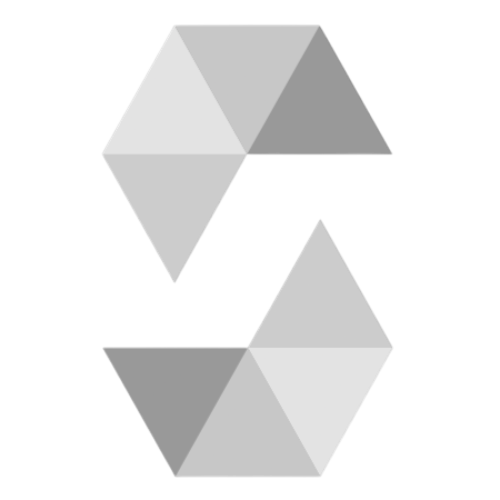
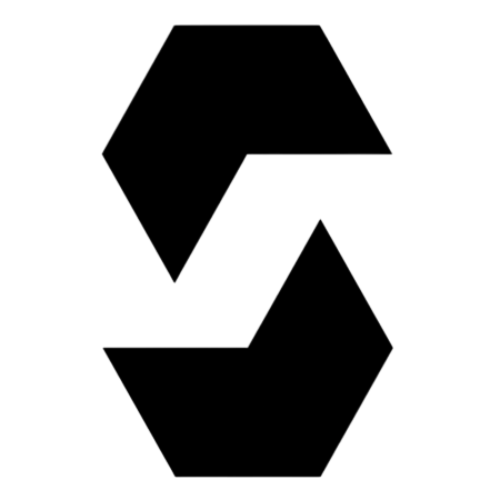
theme updated & changed

diff --git a/src/SecP.jsx b/src/SecP.jsx
@@ -141,7 +141,7 @@ export default function SecP() {
                                 <div className="divf headerBCard">
                                     <p className="mH handle">#ABOUT ME</p>
                                 </div>
-                                <div className="divf fdirc aboutMeD">
+                                <div className="divf fdirc aboutMeD ">
                                     <p>Hey, I am Yash!</p>
                                     <p>A Developer from Mumbai.</p>
                                     <p>I have a keen interest in Blockchain & Web Development.</p>
@@ -172,37 +172,39 @@ export default function SecP() {
                         >
                             <div className="divf fdirc cProjects c1 softWindow softProject">
                                 <button className="closeSoft" onClick={() => { const vas = handleSoft("idProjectFolder", "idProjectSC", pOpen); setPOpen(vas); }}><FontAwesomeIcon icon={faXmark} /></button>
+
                                 <div className="divf headerBCard">
                                     <p className="mH handle">#PROJECTS</p>
                                 </div>
 
                                 <div className="divf allProjects">
-                                    <Link target="_blank" to="https://algo-vlab.kjsieit.com/" className="divf fdirc indProject projCard">
+                                    <Link target="_blank" to="https://algo-vlab.kjsieit.com/" className="divf fdirc indProject projCard allWCards">
                                         <button className="goToSite"><FontAwesomeIcon icon={faArrowUpRightFromSquare} /></button>
                                         <p className="projectName">Algorithm Virtual lab</p>
                                         <p className="projectDesc">Learn Algorithms using Simulations and various examples</p>
                                     </Link>
-                                    <Link target="_blank" to="https://itsyashaseeker.github.io/Ultimate-digits/" className="divf fdirc indProject">
+                                    <Link target="_blank" to="https://itsyashaseeker.github.io/Ultimate-digits/" className="divf fdirc indProject allWCards">
                                         <button className="goToSite"><FontAwesomeIcon icon={faArrowUpRightFromSquare} /></button>
                                         <p className="projectName">Ultimate Digits</p>
                                         <p className="projectDesc">Buy web3 mobile no. {"{Contributed to frontend (React)}"}</p>
                                     </Link>
-                                    <Link target="_blank" to="https://github.com/itsYashASeeker/blocksupp" className="divf fdirc indProject">
+                                    <Link target="_blank" to="https://github.com/itsYashASeeker/blocksupp" className="divf fdirc indProject allWCards">
                                         <button className="goToSite"><FontAwesomeIcon icon={faArrowUpRightFromSquare} /></button>
                                         <p className="projectName">BlockSupp</p>
                                         <p className="projectDesc">Track your product's history using blockchain from Supplier to Customer {"{Solidity}"}</p>
                                     </Link>
-                                    <Link target="_blank" to="https://github.com/itsYashASeeker/Python-Projects" className="divf fdirc indProject">
+                                    <Link target="_blank" to="https://github.com/itsYashASeeker/Python-Projects" className="divf fdirc indProject allWCards">
                                         <button className="goToSite"><FontAwesomeIcon icon={faArrowUpRightFromSquare} /></button>
                                         <p className="projectName">Python Projects</p>
                                         <p className="projectDesc">All projects I created in Python(games & guis)</p>
                                     </Link>
-                                    <Link target="_blank" to="https://todolists-pora.onrender.com/" className="divf fdirc indProject">
+                                    <Link target="_blank" to="https://todolists-pora.onrender.com/" className="divf fdirc indProject allWCards">
                                         <button className="goToSite"><FontAwesomeIcon icon={faArrowUpRightFromSquare} /></button>
                                         <p className="projectName">Todo lists</p>
                                         <p className="projectDesc">A User Interactive Todo lists WebApp</p>
                                     </Link>
                                 </div>
+
                             </div>
                         </Draggable>
                     </div>
@@ -451,12 +453,12 @@ export default function SecP() {
                         <img src={FolderIcon} className="folderI" />
                         <p className="folderName">Experience</p>
                     </button>
-                    <button id="idEducationFolder" className="divf fdirc folderCard">
-                        <img src={FolderIcon} className="folderI" onClick={() => { const vas = handleSoft("idEducationFolder", "idEducationSC", edOpen); setEdOpen(vas); }} />
+                    <button id="idEducationFolder" className="divf fdirc folderCard" onClick={() => { const vas = handleSoft("idEducationFolder", "idEducationSC", edOpen); setEdOpen(vas); }}>
+                        <img src={FolderIcon} className="folderI" />
                         <p className="folderName">Education</p>
                     </button>
-                    <button id={softList[3][0]} className="divf fdirc folderCard">
-                        <img src={FolderIcon} className="folderI" onClick={() => { const vas = handleSoft(softList[3][0], softList[3][1], cerOpen); setCerOpen(vas); }} />
+                    <button id={softList[3][0]} className="divf fdirc folderCard" onClick={() => { const vas = handleSoft(softList[3][0], softList[3][1], cerOpen); setCerOpen(vas); }}>
+                        <img src={FolderIcon} className="folderI" />
                         <p className="folderName">Certifications</p>
                     </button>
                 </div>

diff --git a/src/index.css b/src/index.css
@@ -27,10 +27,9 @@
 }
 
 body {
-  background: rgba(41, 49, 50, 1);
-  background: rgb(26, 25, 25);
+  background: black;
   /* background: linear-gradient(red, blue); */
-  color: white;
+  color: rgb(0, 0, 0);
 }
 
 .fullbg {
@@ -38,7 +37,9 @@ body {
   width: 100%;
 }
 
-
+a {
+  color: black;
+}
 
 .divf {
   display: flex;
@@ -116,7 +117,7 @@ body {
 }
 
 .c1 {
-
+  position: relative;
   /* background: grey; */
   width: 30vw;
   padding: 0.5rem 0.8rem;
@@ -125,19 +126,17 @@ body {
   border-bottom-right-radius: 1rem; */
   border-radius: 1rem;
 
-  border: 0.15rem solid var(--p5);
+  border: 0.2rem solid rgba(255, 255, 255, 0.8);
 
   background: var(--b2);
+  background: rgba(255, 255, 255, 0.4);
   transition: 0.3s all ease-out;
   backdrop-filter: blur(1rem);
-  box-shadow: 0 0 0.3rem rgba(255, 255, 255, 0.3);
+  box-shadow: 0 0 0.3rem rgba(0, 0, 0, 0.3);
+  color: black;
+
 }
 
-.c1:hover {
-  border: 0.15rem solid var(--p3);
-  background: var(--b3);
-  box-shadow: 0 0 0.3rem rgba(255, 255, 255, 0.63);
-}
 
 .cSkills {
   transform: translateY(-0.15rem) translateX(-0.15rem);
@@ -158,6 +157,8 @@ body {
   width: 100%;
   font-family: 'Pixelify Sans', sans-serif;
   margin-right: 3rem;
+  /* backdrop-filter: blur(1rem); */
+  /* box-shadow: 0 0 0.3rem rgba(255, 255, 255, 0.5); */
   /* back */
 }
 
@@ -174,7 +175,7 @@ body {
 .skB {
   column-gap: 0.5rem;
   border-radius: 0.5rem;
-  background: rgba(255, 255, 255, 0.1);
+  background: rgba(255, 255, 255, 0.4);
   border: 0.12rem solid rgba(255, 255, 255, 0.1);
   width: fit-content;
   padding: 0rem 0.6rem;
@@ -182,20 +183,23 @@ body {
   font-size: 1rem;
   cursor: default;
   transition: 0.2s all ease-out;
+  box-shadow: 0 0 0.3rem rgb(97, 97, 97);
 }
 
 .skB:hover {
-  background: rgba(255, 255, 255, 0.2);
+  background: rgba(255, 255, 255, 0.5);
   border: 0.12rem solid rgba(255, 255, 255, 0.9);
+  box-shadow: 0 0 0.4rem 0.1rem rgb(97, 97, 97);
 }
 
 .fIconS {
   transform: translateY(0.1rem);
-  color: white;
+  color: black;
 }
 
 .fImgS {
   /* width: 1rem; */
+  /* mix-blend-mode:darken; */
   height: 1rem;
   /* mix-blend-mode: lighten; */
 }
@@ -226,21 +230,24 @@ body {
 }
 
 .workCard {
-  background: rgba(255, 255, 255, 0.1);
+  background: rgba(255, 255, 255, 0.3);
   width: 100%;
   border-radius: 1.1rem;
   padding: 0.2rem 0.8rem;
   padding-bottom: 0.6rem;
   border: 0.15rem solid var(--p5);
-  transition: 0.3s all ease-out;
+  border: 0.15rem solid rgba(255, 255, 255, 0.5);
+  /* transition: 0.3s all ease-out; */
   cursor: default;
+  transition: 0.2s all ease-out;
+  box-shadow: 0 0 0.3rem rgb(97, 97, 97);
+  /* backdrop-filter: blur(0rem); */
 }
 
 .workCard:hover {
-  background: var(--b5);
-  background: rgba(255, 255, 255, 0.18);
-  border: 0.15rem solid rgba(255, 255, 255, 0.7);
-  box-shadow: 0 0 0.2rem white;
+  background: rgba(255, 255, 255, 0.5);
+  border: 0.15rem solid rgba(255, 255, 255, 0.8);
+  box-shadow: 0 0 0.4rem 0.1rem rgb(97, 97, 97);
 }
 
 .workMainH {
@@ -283,13 +290,13 @@ body {
   /* height: 20rem; */
   min-height: 10rem;
   /* background: rgba(255, 255, 255, 0.15); */
-  background: var(--b1);
+  /* background: var(--b1); */
   border-radius: 1rem;
-  border: 0.2rem solid var(--p5);
+  border: 0.2rem solid rgba(235, 235, 235, 0.4);
   padding: 0.5rem;
   cursor: pointer;
   overflow: hidden;
-  color: white;
+  color: black;
   text-decoration: none;
 }
 
@@ -303,7 +310,7 @@ body {
   border: none;
   outline: none;
   cursor: pointer;
-  color: white;
+  color: rgb(26, 26, 26);
   transition: 0.3s all ease-out;
 }
 
@@ -321,12 +328,14 @@ body {
 
 .indProject:hover {
   gap: 0.5rem;
-  background: var(--b5);
+  /* background: var(--b5); */
+  /* background: rgba(255, 255, 255, 0.4);
+  backdrop-filter: blur(0.05rem); */
   border: 0.2rem solid white;
 }
 
 .indProject:hover .goToSite {
-  font-size: 1rem;
+  font-size: 0.8rem;
 }
 
 .indProject:hover .projectName {

diff --git a/src/index2.css b/src/index2.css
@@ -4,10 +4,10 @@
     left: 0;
     width: 100%;
     padding: 0.5rem 1rem;
-    padding-top: 0.4rem;
+    padding-top: 0.1rem;
     background: var(--b4);
-    background: rgba(0, 0, 0, 0.1);
-    backdrop-filter: blur(0.1rem);
+    background: linear-gradient(0deg, rgba(0, 0, 0, 0.8), rgba(0, 0, 0, 0.2));
+    backdrop-filter: blur(0.2rem);
 }
 
 a {
@@ -23,6 +23,7 @@ a {
 
 .myname {
     font-size: 1rem;
+    color: white;
 }
 
 .currTime {
@@ -32,6 +33,7 @@ a {
     right: 1rem;
     transform: translateY(-50%);
     font-size: 1.3rem;
+    color: white;
 }
 
 .mainContent {
@@ -63,8 +65,8 @@ a {
 
 .folderCard {
     /* background: red; */
-    background: rgba(255, 255, 255, 0.1);
-    backdrop-filter: blur(0.1rem);
+    background: rgba(255, 255, 255, 0.2);
+    backdrop-filter: blur(0.3rem);
     padding: 0.2rem 0.4rem;
     border-radius: 0.5rem;
     border: 0.15rem solid rgba(255, 255, 255, 0.2);
@@ -177,10 +179,11 @@ a {
     outline: none;
     border-radius: 50%;
     cursor: pointer;
+    transition: 0.2s all ease-out;
 }
 
 .closeSoft:hover {
-    background: rgba(0, 0, 0, 0.4);
+    background: rgba(255, 0, 0, 0.4);
 }
 
 .softWindow {
@@ -213,6 +216,7 @@ a {
 }
 
 .certBox {
+    color: black;
     cursor: pointer;
 }
 
@@ -255,7 +259,24 @@ a {
 
 .headerBCard {
     width: 100%;
-    background: rgba(255, 255, 255, 0.2);
+    background: rgba(255, 255, 255, 0.8);
+    /* backdrop-filter: blur(0.4rem); */
     border-top-right-radius: 0.5rem;
     border-top-left-radius: 0.5rem;
+    transition: 0.2s all ease-out;
+}
+
+.headerBCard:hover {
+    /* background: rgba(255, 255, 255, 0.6); */
+}
+
+.allWCards {
+    background: rgba(255, 255, 255, 0.3);
+    box-shadow: 0 0 0.3rem rgb(97, 97, 97);
+}
+
+.allWCards:hover {
+    background: rgba(255, 255, 255, 0.3);
+    backdrop-filter: blur(0.05rem);
+    box-shadow: 0 0 0.4rem 0.1rem rgb(97, 97, 97);
 }

diff --git a/src/bg1.css b/src/bg1.css
@@ -1,6 +1,15 @@
 @import url("https://fonts.googleapis.com/css?family=Lobster&display=swap");
 /*   repeat scroll 0 0 rgba(0, 0, 0, 0); */
 
+body {
+    background-image: url("../src/assets/pp_bg5.jpg");
+
+    background-position: center;
+    background-size: cover;
+    background-repeat: no-repeat;
+    /* opacity: 0.5; */
+    background-blend-mode:difference;
+}
 
 .fullbg1 {
     animation: scroll 100s linear infinite;
@@ -8,12 +17,8 @@
         #111111; */
     /* background: url("https://images.unsplash.com/photo-1528819027803-5473f2bf7633?q=80&w=1000&auto=format&fit=crop&ixlib=rb-4.0.3&ixid=M3wxMjA3fDB8MHxleHBsb3JlLWZlZWR8OXx8fGVufDB8fHx8fA%3D%3D"), black; */
     /* color: #eee; */
-    background-image: url("../src/assets/mybg.png");
+
     height: 100vh;
-    background-position: center;
-    background-size: cover;
-    /* width: 100vw; */
-    /* background-repeat: no-repeat; */
     /* background-image: ; */
     /* min-width: 360px; */
     width: 100%;

diff --git a/src/media.css b/src/media.css
@@ -1,6 +1,6 @@
 @media (max-width:500px) {
     .fullbg1 {
-        background-image: url("../src/assets/mybg2.jpg");
+        /* background-image: url("../src/assets/mybg2.jpg"); */
     }
 
     .mypcDiv {
